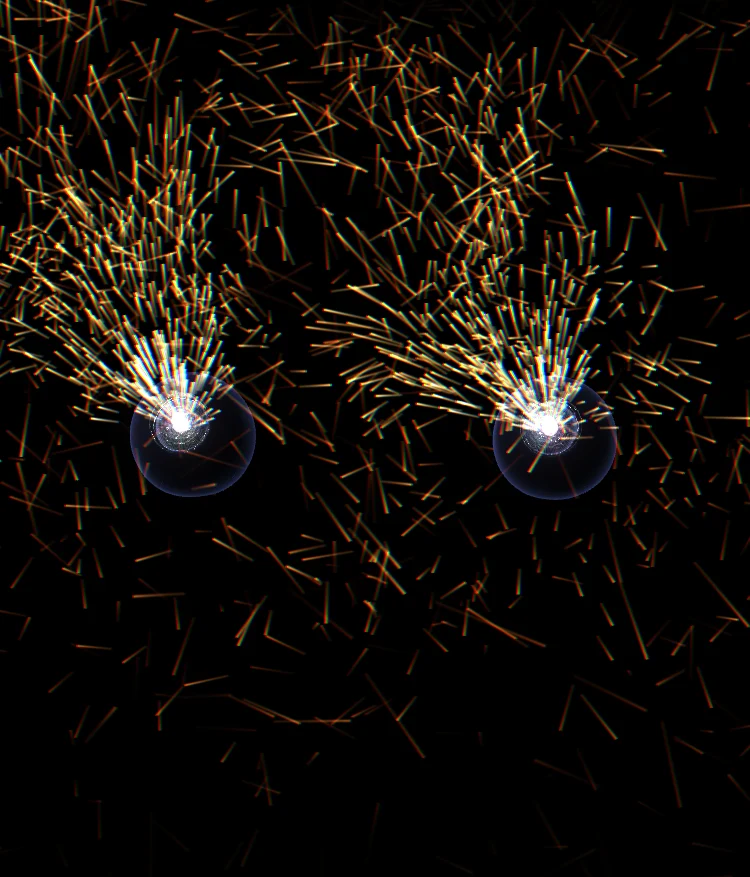
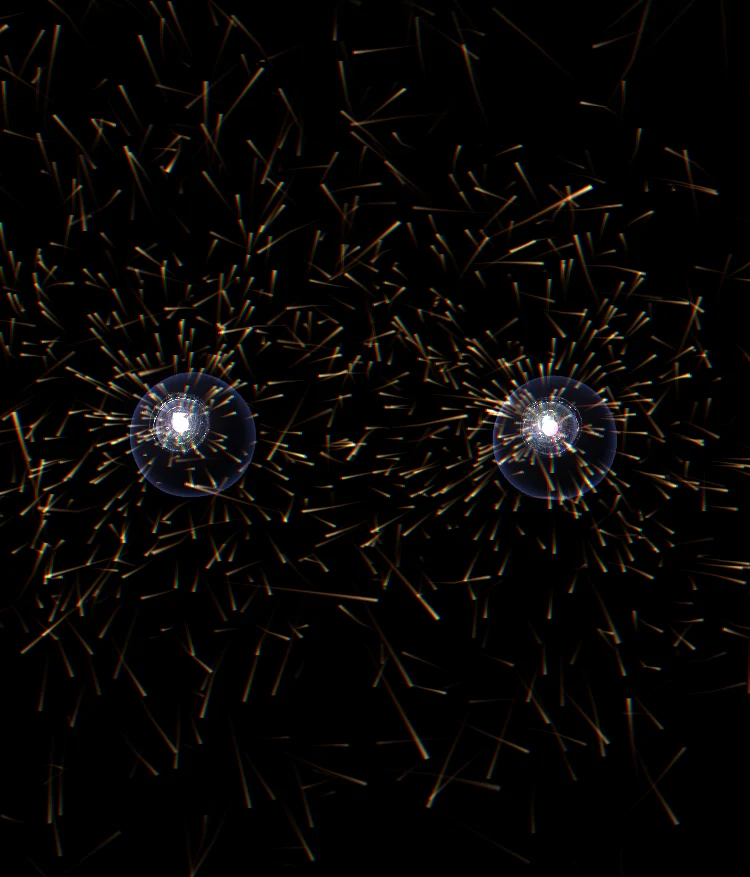
art: short bending embers with glowing heads; finer silver scribbles that fade before the credits
Two rounds of independent critique: embers instead of needles (short tapered trails, depth-scaled,
a stronger, finer curl once clear of the eye, every-direction burst from the pupils); scribbles in
cool silver, softer vignette, lighter down the page and gone before the credits, a soft text halo,
stronger on phones.

diff --git a/src/stage/sparks.js b/src/stage/sparks.js
@@ -37,13 +37,13 @@ vec3 curl(vec3 p){                                    // swirls without sources 
 }`;
 
 const UPDATE_VS = `#version 300 es
-in vec3 aPos; in vec3 aVel; in vec2 aLife; in float aSeed;
+in vec3 aPos; in vec3 aVel; in vec2 aLife; in float aSeed; in vec3 aT1; in vec3 aT2;
 uniform float uDt, uTime, uZmax; uniform vec3 uPupil0, uPupil1, uGaze0, uGaze1;
-out vec3 oPos; out vec3 oVel; out vec2 oLife; out float oSeed;
+out vec3 oPos; out vec3 oVel; out vec2 oLife; out float oSeed; out vec3 oT1; out vec3 oT2;   // T1, T2: two points trailing the head, for a curved streak
 ${NOISE}
 float hash(float n){ return fract(sin(n)*43758.5453123); }
 void main(){
-  vec3 p = aPos, v = aVel; float age = aLife.x + uDt, life = aLife.y;
+  vec3 p = aPos, v = aVel, t1 = aT1, t2 = aT2; float age = aLife.x + uDt, life = aLife.y;
   bool left = mod(floor(aSeed), 2.) < .5;
   vec3 P = left ? uPupil0 : uPupil1, g = left ? uGaze0 : uGaze1;
   bool unborn = aLife.x < 0.;
@@ -53,15 +53,19 @@ void main(){
     vec3 r = vec3(hash(k), hash(k + 1.3), hash(k + 2.7))*2. - 1.;
     vec3 u1 = normalize(cross(vec3(0., 1., 0.), g)), u2 = cross(g, u1);
     p = P + (u1*r.x + u2*r.y)*1.3;                                          // from the centre of the pupil
-    v = normalize(g + (u1*r.x + u2*r.y)*.45 + vec3(0., .3, 0.))*(60. + 55.*hash(k + 4.1));
-    age = 0.; life = 3.5 + 5.5*hash(k + 5.9);
+    vec3 burst = normalize(vec3(hash(k + 6.3), hash(k + 7.7), hash(k + 8.9))*2. - 1. + vec3(1e-3));
+    v = normalize(g*.7 + burst)*(55. + 55.*hash(k + 4.1));                  // out of the pupil in every direction, mostly forward
+    age = 0.; life = 2. + 2.2*hash(k + 5.9); t1 = p; t2 = p;
   } else {
-    float loose = smoothstep(15., 75., distance(p, P));                     // clear of the eye, the current takes it
-    vec3 f = curl(p*.021 + vec3(0., 0., uTime*.07))*46. + vec3(0., 10., 0.);
-    v = mix(v, f, (1. - exp(-uDt*2.4))*loose);
+    float loose = smoothstep(12., 60., distance(p, P));                     // clear of the eye, the current takes it
+    float wild = 1. + smoothstep(25., 70., distance(p, P));                // well clear of the eye, the current doubles
+    vec3 f = curl(p*.026 + vec3(0., 0., uTime*.08))*85.*wild + vec3(0., 8., 0.);   // whirls a few sparks across, so short streaks bend
+    v = mix(v, f, (1. - exp(-uDt*2.8))*loose);
     p += v*uDt;
+    float k1 = 1. - exp(-uDt/.05);   // short embers                                         // the trail follows the head a little late, so a turning spark draws a curve
+    t1 = mix(t1, p, k1); t2 = mix(t2, t1, k1);
   }
-  oPos = p; oVel = v; oLife = vec2(age, life); oSeed = aSeed;
+  oPos = p; oVel = v; oLife = vec2(age, life); oSeed = aSeed; oT1 = t1; oT2 = t2;
   gl_Position = vec4(0.);
 }`;
 const UPDATE_FS = `#version 300 es
@@ -71,26 +75,29 @@ export function createSparks(gl, { count, CAM, GLOW_FS }) {
   const compile = (type, src) => { const o = gl.createShader(type); gl.shaderSource(o, src); gl.compileShader(o); if (!gl.getShaderParameter(o, gl.COMPILE_STATUS) && !gl.isContextLost()) console.error(gl.getShaderInfoLog(o)); return o; };
   const up = gl.createProgram();
   gl.attachShader(up, compile(gl.VERTEX_SHADER, UPDATE_VS)); gl.attachShader(up, compile(gl.FRAGMENT_SHADER, UPDATE_FS));
-  gl.transformFeedbackVaryings(up, ['oPos', 'oVel', 'oLife', 'oSeed'], gl.INTERLEAVED_ATTRIBS);
+  gl.transformFeedbackVaryings(up, ['oPos', 'oVel', 'oLife', 'oSeed', 'oT1', 'oT2'], gl.INTERLEAVED_ATTRIBS);
   gl.linkProgram(up);
   if (!gl.getProgramParameter(up, gl.LINK_STATUS)) { if (!gl.isContextLost()) console.warn('spark program did not link:', gl.getProgramInfoLog(up)); return null; }
   const uu = n => gl.getUniformLocation(up, n);
   const U = { dt: uu('uDt'), time: uu('uTime'), zmax: uu('uZmax'), p0: uu('uPupil0'), p1: uu('uPupil1'), g0: uu('uGaze0'), g1: uu('uGaze1') };
 
   const DRAW_VS = `#version 300 es
-in vec2 aCorner; in vec3 iPos; in vec3 iVel; in vec2 iLife;
+in vec2 aCorner; in vec3 iPos; in vec3 iT1; in vec3 iT2; in vec2 iLife;
 ${CAM}
-uniform vec2 uRes, uShift; uniform float uPx, uStreak;
+uniform vec2 uRes, uShift; uniform float uPx;
 out float vT; out float vAcross; out float vAlong; out float vNear;
+vec2 scr(vec4 c){ return c.xy/c.w*uRes; }
 void main(){
-  vec4 a = camera(iPos), b = camera(iPos - iVel*uStreak);
-  vec2 sa = a.xy/a.w*uRes, sb = b.xy/b.w*uRes, d = sa - sb; float L = length(d);
+  vec4 h = camera(iPos), m = camera(iT1), t = camera(iT2);                  // head, middle and tail of the streak
+  float s = 1. - aCorner.x;                                                 // 1 at the head, 0 at the tail
+  vec4 e = aCorner.x < .5 ? mix(h, m, aCorner.x*2.) : mix(m, t, aCorner.x*2. - 1.);
+  vec2 d = aCorner.x < .5 ? scr(h) - scr(m) : scr(m) - scr(t); float L = length(d);
   vec2 dir = L > .001 ? d/L : vec2(1., 0.), nrm = vec2(-dir.y, dir.x);
-  float near = clamp(260./a.w, .6, 4.), w = uPx*(.55 + .65*near);
-  vec4 e = mix(b, a, aCorner.x);
-  vec2 pos = e.xy/e.w*uRes + nrm*aCorner.y*w + dir*(aCorner.x*2. - 1.)*w + uShift*uRes;
+  float near = clamp(300./h.w, .3, 4.), w = uPx*(.35 + .9*near)*(.35 + .65*s);   // nearer sparks wider; the trail tapers
+  vec2 pos = scr(e) + nrm*aCorner.y*w + uShift*uRes;
+  if (aCorner.x == 0.) pos += dir*w;                                        // a round-ish head
   gl_Position = iLife.x < 0. ? vec4(2., 2., 2., 1.) : vec4(pos/uRes*e.w, e.z, e.w);
-  vT = clamp(iLife.x/iLife.y, 0., 1.); vAcross = aCorner.y; vAlong = aCorner.x; vNear = near;
+  vT = clamp(iLife.x/iLife.y, 0., 1.); vAcross = aCorner.y; vAlong = s; vNear = near;
 }`;
   const DRAW_FS = `#version 300 es
 precision highp float;
@@ -98,13 +105,15 @@ in float vT; in float vAcross; in float vAlong; in float vNear;
 uniform vec3 uMask;
 ${GLOW_FS}
 out vec4 o;
-vec3 ember(float t){                                   // white-hot, gold, orange, deep red
+vec3 ember(float t){                                   // white-hot, gold, orange, deep red, as the spark ages
   return t < .08 ? mix(vec3(1., .97, .9), vec3(1., .82, .45), t/.08) : t < .4 ? mix(vec3(1., .82, .45), vec3(1., .45, .12), (t - .08)/.32) : mix(vec3(1., .45, .12), vec3(.75, .1, .06), (t - .4)/.6);
 }
 void main(){
-  float across = exp(-vAcross*vAcross*3.), along = .25 + .75*vAlong*vAlong;             // brightest at the head
-  float life = smoothstep(0., .04, vT)*pow(1. - vT, 1.3);
-  vec3 c = ember(vT)*across*along*life*uGain/sqrt(vNear)*clearOfWords()*uFade*uMask;
+  float across = exp(-vAcross*vAcross*3.), along = .15 + .85*pow(vAlong, 1.6);           // brightest at the head
+  float life = smoothstep(0., .05, vT)*pow(1. - vT, 1.2);
+  vec3 head = mix(ember(vT), vec3(1., .91, .69), .55*vAlong*vAlong), tail = mix(head, vec3(1., .42, .0), (1. - vAlong)*.7);
+  float depth = clamp((vNear - .45)/1.4, 0., 1.);
+  vec3 c = (tail*across*along + vec3(1., .85, .6)*pow(vAlong, 6.)*exp(-vAcross*vAcross*1.5)*depth*1.6)*life*uGain*mix(.35, 1.4, depth)*clearOfWords()*uFade*uMask;   // nearer: brighter, with a glowing head
   o = vec4(c, max(c.r, max(c.g, c.b)));
 }`;
   const sh = (type, src) => compile(type, src);
@@ -114,18 +123,18 @@ void main(){
 
   // state: position(3) velocity(3) age, life (2) seed (1). Each spark waits a random while before its first birth, so
   // they leave the eyes as a stream, not all at once.
-  const STRIDE = 9, init = new Float32Array(count * STRIDE);
+  const STRIDE = 15, init = new Float32Array(count * STRIDE);
   let s = 12345; const rnd = () => { s = (s * 1664525 + 1013904223) >>> 0; return s / 4294967296; };
   for (let i = 0; i < count; i++) { init[i * STRIDE + 6] = -rnd() * 7; init[i * STRIDE + 7] = 1; init[i * STRIDE + 8] = i + rnd() * 0.5; }
   const bufs = [gl.createBuffer(), gl.createBuffer()];
   for (const b of bufs) { gl.bindBuffer(gl.ARRAY_BUFFER, b); gl.bufferData(gl.ARRAY_BUFFER, init, gl.DYNAMIC_COPY); }
   const attrs = (prog, names, div) => names.forEach(([n, size, off]) => { const l = gl.getAttribLocation(prog, n); if (l < 0) return; gl.enableVertexAttribArray(l); gl.vertexAttribPointer(l, size, gl.FLOAT, false, STRIDE * 4, off * 4); gl.vertexAttribDivisor(l, div); });
-  const upVao = bufs.map(b => { const v = gl.createVertexArray(); gl.bindVertexArray(v); gl.bindBuffer(gl.ARRAY_BUFFER, b); attrs(up, [['aPos', 3, 0], ['aVel', 3, 3], ['aLife', 2, 6], ['aSeed', 1, 8]], 0); return v; });
-  const quad = gl.createBuffer(); gl.bindBuffer(gl.ARRAY_BUFFER, quad); gl.bufferData(gl.ARRAY_BUFFER, new Float32Array([0, -1, 0, 1, 1, -1, 1, 1]), gl.STATIC_DRAW);
+  const upVao = bufs.map(b => { const v = gl.createVertexArray(); gl.bindVertexArray(v); gl.bindBuffer(gl.ARRAY_BUFFER, b); attrs(up, [['aPos', 3, 0], ['aVel', 3, 3], ['aLife', 2, 6], ['aSeed', 1, 8], ['aT1', 3, 9], ['aT2', 3, 12]], 0); return v; });
+  const quad = gl.createBuffer(); gl.bindBuffer(gl.ARRAY_BUFFER, quad); gl.bufferData(gl.ARRAY_BUFFER, new Float32Array([0, -1, 0, 1, .5, -1, .5, 1, 1, -1, 1, 1]), gl.STATIC_DRAW);   // head, middle, tail
   const drawVao = bufs.map(b => {
     const v = gl.createVertexArray(); gl.bindVertexArray(v);
     const cl = gl.getAttribLocation(dp, 'aCorner'); gl.bindBuffer(gl.ARRAY_BUFFER, quad); gl.enableVertexAttribArray(cl); gl.vertexAttribPointer(cl, 2, gl.FLOAT, false, 0, 0);
-    gl.bindBuffer(gl.ARRAY_BUFFER, b); attrs(dp, [['iPos', 3, 0], ['iVel', 3, 3], ['iLife', 2, 6]], 1); return v;
+    gl.bindBuffer(gl.ARRAY_BUFFER, b); attrs(dp, [['iPos', 3, 0], ['iLife', 2, 6], ['iT1', 3, 9], ['iT2', 3, 12]], 1); return v;
   });
   gl.bindVertexArray(null);
   const tf = gl.createTransformFeedback();
@@ -150,12 +159,12 @@ void main(){
     },
     // the caller has set the camera and glow uniforms on `program`
     draw(res, px) {
-      gl.uniform2fv(du.uRes, res); gl.uniform1f(du.uPx, px); gl.uniform1f(du.uStreak, 0.085);
+      gl.uniform2fv(du.uRes, res); gl.uniform1f(du.uPx, px);
       gl.bindVertexArray(drawVao[cur]);
       const split = 1.6 / res[0];                                       // a slight red-blue split, as in the reference
       for (const [mask, dx] of [[[1, 0, 0], -split], [[0, 1, 0], 0], [[0, 0, 1], split]]) {
         gl.colorMask(!!mask[0], !!mask[1], !!mask[2], true); gl.uniform3fv(du.uMask, mask); gl.uniform2f(du.uShift, dx, 0);
-        gl.drawArraysInstanced(gl.TRIANGLE_STRIP, 0, 4, count);
+        gl.drawArraysInstanced(gl.TRIANGLE_STRIP, 0, 6, count);
       }
       gl.colorMask(true, true, true, true); gl.bindVertexArray(null);
     },

diff --git a/src/stage/backdrop.js b/src/stage/backdrop.js
@@ -27,7 +27,7 @@ export function createBackdrop(canvas, { lite = false, preserve = false } = {}) 
   const gl = canvas.getContext('webgl2', { alpha: true, premultipliedAlpha: true, antialias: true, preserveDrawingBuffer: preserve });
   if (!gl) return null;
   const pr = program(gl, VS, FS); if (!pr) return null;
-  const lines = traceScribbles({ lines: lite ? 260 : 520, steps: lite ? 140 : 170, step: 0.021, spread: 0.38, seed: 11 });
+  const lines = traceScribbles({ lines: lite ? 380 : 820, steps: lite ? 140 : 170, step: 0.021, spread: 0.38, seed: 11 });
   const per = lines[0].length / 3 - 1, segs = lines.length * per, pos = new Float32Array(segs * 6), glow = new Float32Array(segs * 2);
   lines.forEach((L, l) => {
     const b = 0.35 + 0.65 * ((l * 0.618) % 1);                            // each line its own brightness
@@ -59,9 +59,9 @@ export function createBackdrop(canvas, { lite = false, preserve = false } = {}) 
       gl.useProgram(pr.p); gl.bindVertexArray(vao); gl.enable(gl.BLEND); gl.blendFunc(gl.ONE, gl.ONE);
       gl.uniformMatrix3fv(pr.u.uRot, false, R); gl.uniform2f(pr.u.uAspect, 2.6 * H / W / fit, 2.6 / fit);
       gl.uniform1f(pr.u.uDist, 3.4); gl.uniform1f(pr.u.uDrift, -0.25 + Math.min(0.5, scroll * 0.00012));
-      const px = 1.4 / W * 2;                                                        // the colour split: a pixel and a half
+      const px = 0.9 / W * 2;                                                        // the colour split: about a pixel
       for (const [mask, dx, tint] of [[[true, false, false], -px, [1, 0, 0]], [[false, true, false], 0, [0, 1, 0]], [[false, false, true], px, [0, 0, 1]]]) {
-        gl.colorMask(mask[0], mask[1], mask[2], true); gl.uniform2f(pr.u.uShift, dx, 0); gl.uniform3fv(pr.u.uTint, tint.map(v => v * 0.55 + 0.0));
+        gl.colorMask(mask[0], mask[1], mask[2], true); gl.uniform2f(pr.u.uShift, dx, 0); gl.uniform3fv(pr.u.uTint, tint.map((v, k) => v * [0.78, 0.82, 0.86][k] * (lite ? 0.63 : 0.42)));   // cool silver, faint (half as strong again on a phone, where less of it shows)
         gl.drawArrays(gl.LINES, 0, segs * 2);
       }
       gl.colorMask(true, true, true, true); gl.bindVertexArray(null);
@@ -79,11 +79,13 @@ export function startBackdrop() {
   const webgl2 = (() => { try { return !!document.createElement('canvas').getContext('webgl2'); } catch { return false; } })();
   if (!webgl2) return;
   let bd = null, last = -1, lost = false, dirty = true;
-  const START = 0.9, PEAK = 0.5;                                                  // in screens of the home section; at most half strength
+  const START = 0.9, PEAK = 0.42, credits = document.querySelector('.credits');     // in screens of the home section; at most 42%
   const shown = () => { const h = home.offsetHeight; return Math.max(0, Math.min(1, (scrollY - START * h) / (0.6 * h))); };   // once the shockwave has gone
   const below = () => Math.max(0, scrollY - START * home.offsetHeight);
   const paint = t => { if (!bd || lost) return; bd.draw(frozen || reduce ? 0 : t, below()); dirty = false; };
-  const show = () => { canvas.style.opacity = String(PEAK * shown()); };
+  // lighter as the page goes on, and gone before the credits
+  const ending = () => { if (!credits) return 1; const r = credits.getBoundingClientRect(); return Math.max(0, Math.min(1, (r.top - innerHeight * 0.35) / (innerHeight * 0.45))); };
+  const show = () => { const depth = Math.min(1, scrollY / Math.max(1, document.documentElement.scrollHeight - innerHeight)); canvas.style.opacity = String(PEAK * shown() * (1 - 0.35 * depth) * ending()); };
   const build = () => {
     bd = createBackdrop(canvas, { lite: innerWidth < 700, preserve: frozen });
     if (!bd) return;

diff --git a/src/stage/eyes.js b/src/stage/eyes.js
@@ -77,7 +77,7 @@ float box(vec4 r, float round, float soft){             // 0 inside the box, ris
   float d = length(max(q, 0.)) + min(max(q.x, q.y), 0.) - round;
   return smoothstep(-soft*.25, soft, d);
 }
-float clearOfWords(){ return box(uText, 90., 240.)*box(uNav, 20., 70.); }   // a soft, rounded fade, so no words sit in a hard dark box`;
+float clearOfWords(){ return mix(.22, 1., box(uText, 140., 320.))*box(uNav, 20., 70.); }   // the words keep a soft quarter-strength haze, never a hard edge   // a soft, rounded fade, so no words sit in a hard dark box`;
 // a soft bloom of light round each pupil, drawn as a screen-facing quad
 const HALO_VS = `#version 300 es
 in vec2 aCorner;
@@ -114,7 +114,7 @@ export function createEyes(canvas, mesh, json, { preserve = false, lite = false,
   if (!gl) return null;
   const eye = program(gl, EYE_VS, EYE_FS), halo = program(gl, HALO_VS, HALO_FS);
   if (!eye || !halo) return null;
-  const sparks = createSparks(gl, { count: lite ? 5000 : 16000, CAM, GLOW_FS });
+  const sparks = createSparks(gl, { count: lite ? 3200 : 9600, CAM, GLOW_FS });
   if (!sparks) return null;
 
   const vao = gl.createVertexArray(); gl.bindVertexArray(vao);
@@ -185,7 +185,7 @@ export function createEyes(canvas, mesh, json, { preserve = false, lite = false,
       if (!NO_SPARKS) {
         const sp = { u: sparks.uniforms };
         gl.useProgram(sparks.program); cam(sp);
-        gl.uniform1f(sp.u.uGain, lite ? 1.25 : 1.0); gl.uniform1f(sp.u.uFade, fade);
+        gl.uniform1f(sp.u.uGain, lite ? 1.3 : 1.1); gl.uniform1f(sp.u.uFade, fade);
         gl.uniform4f(sp.u.uText, wr.left * s, (vh - wr.bottom) * s, wr.right * s, (vh - wr.top) * s);
         gl.uniform4f(sp.u.uNav, nr.left * s, (vh - nr.bottom) * s, nr.right * s, (vh - nr.top) * s);
         sparks.draw([W / 2, H / 2], Math.max(0.8, 1.0 * s));

diff --git a/src/styles/global.css b/src/styles/global.css
@@ -196,5 +196,11 @@ html[data-art-page="hands"]::before{opacity:.22}
 /* the scribbles behind the home page: fixed behind everything, faded in by the page script below the brain's shockwave,
    darkened towards the corners, and faded (not slid) on the way to a section page */
 .scribbles{position:fixed;inset:0;width:100%;height:100%;z-index:0;pointer-events:none;opacity:0;view-transition-name:scribbles;
-  -webkit-mask-image:radial-gradient(ellipse 75% 70% at 50% 50%,#000 35%,transparent 100%);mask-image:radial-gradient(ellipse 75% 70% at 50% 50%,#000 35%,transparent 100%)}
+  -webkit-mask-image:radial-gradient(ellipse 140% 130% at 50% 50%,#000 50%,transparent 100%);mask-image:radial-gradient(ellipse 140% 130% at 50% 50%,#000 50%,transparent 100%)}   /* darker only towards the corners */
 ::view-transition-old(scribbles),::view-transition-new(scribbles){animation-duration:.6s}
+
+/* the words over the scribbles: a soft dark halo keeps them readable; on phones the plates behind them feather out */
+.stop h2,.stop p,.about-l h2,.about-l p,.about-r,.mail{text-shadow:0 0 14px #000,0 0 28px #000}
+@media (max-width:820px){.about-l,.about-r,.stop{box-shadow:0 0 26px 16px var(--bg)}}
+/* the credits rise out of the dark instead of cutting the scribbles off with a hard edge */
+.credits{background:linear-gradient(to bottom,transparent,var(--bg) 220px)}
